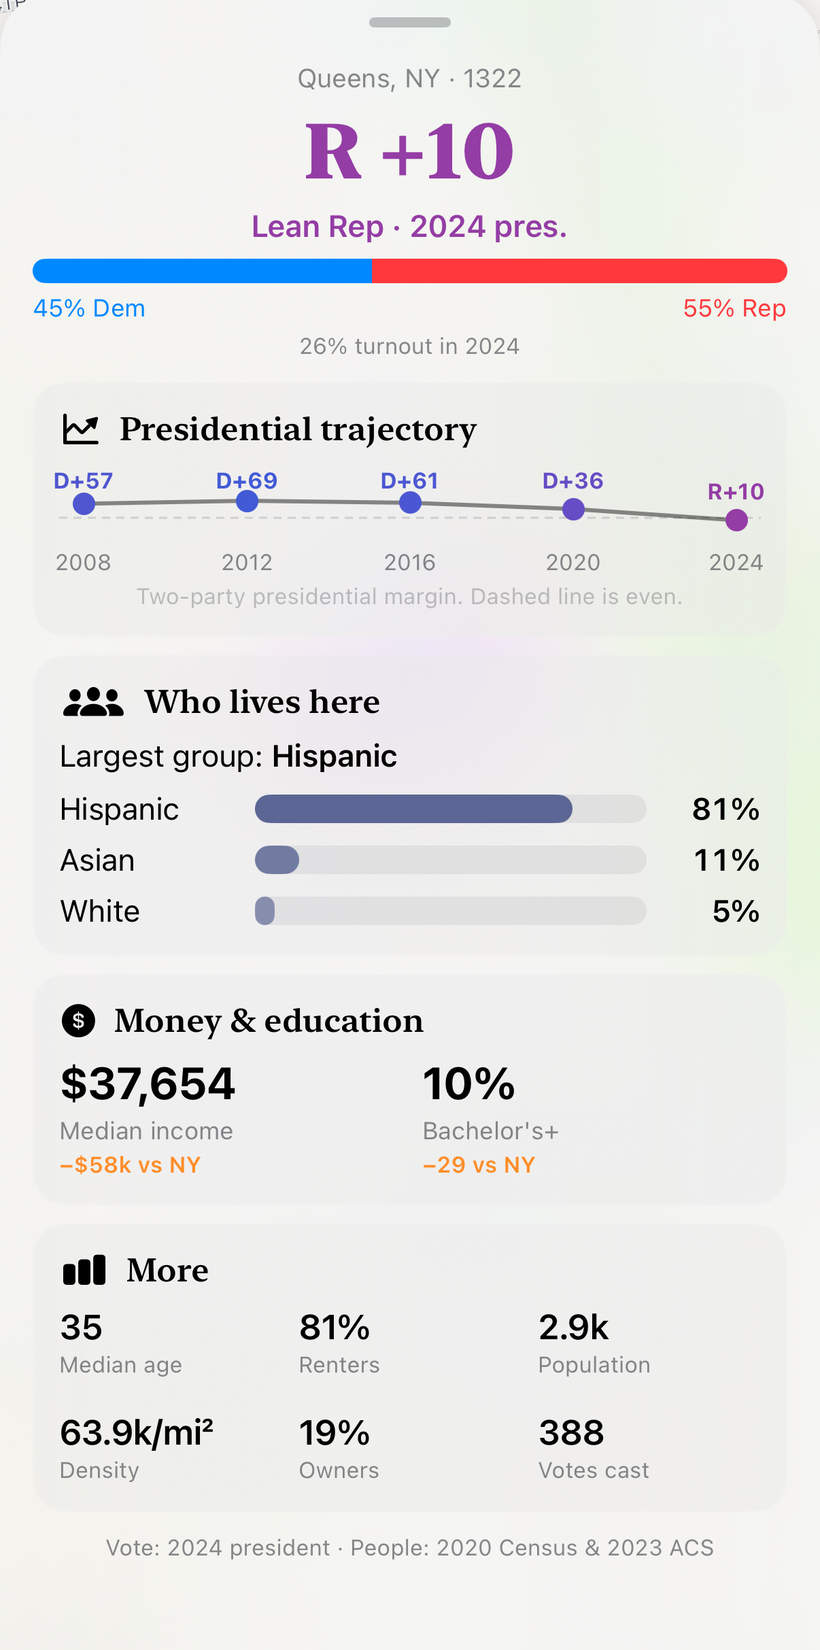
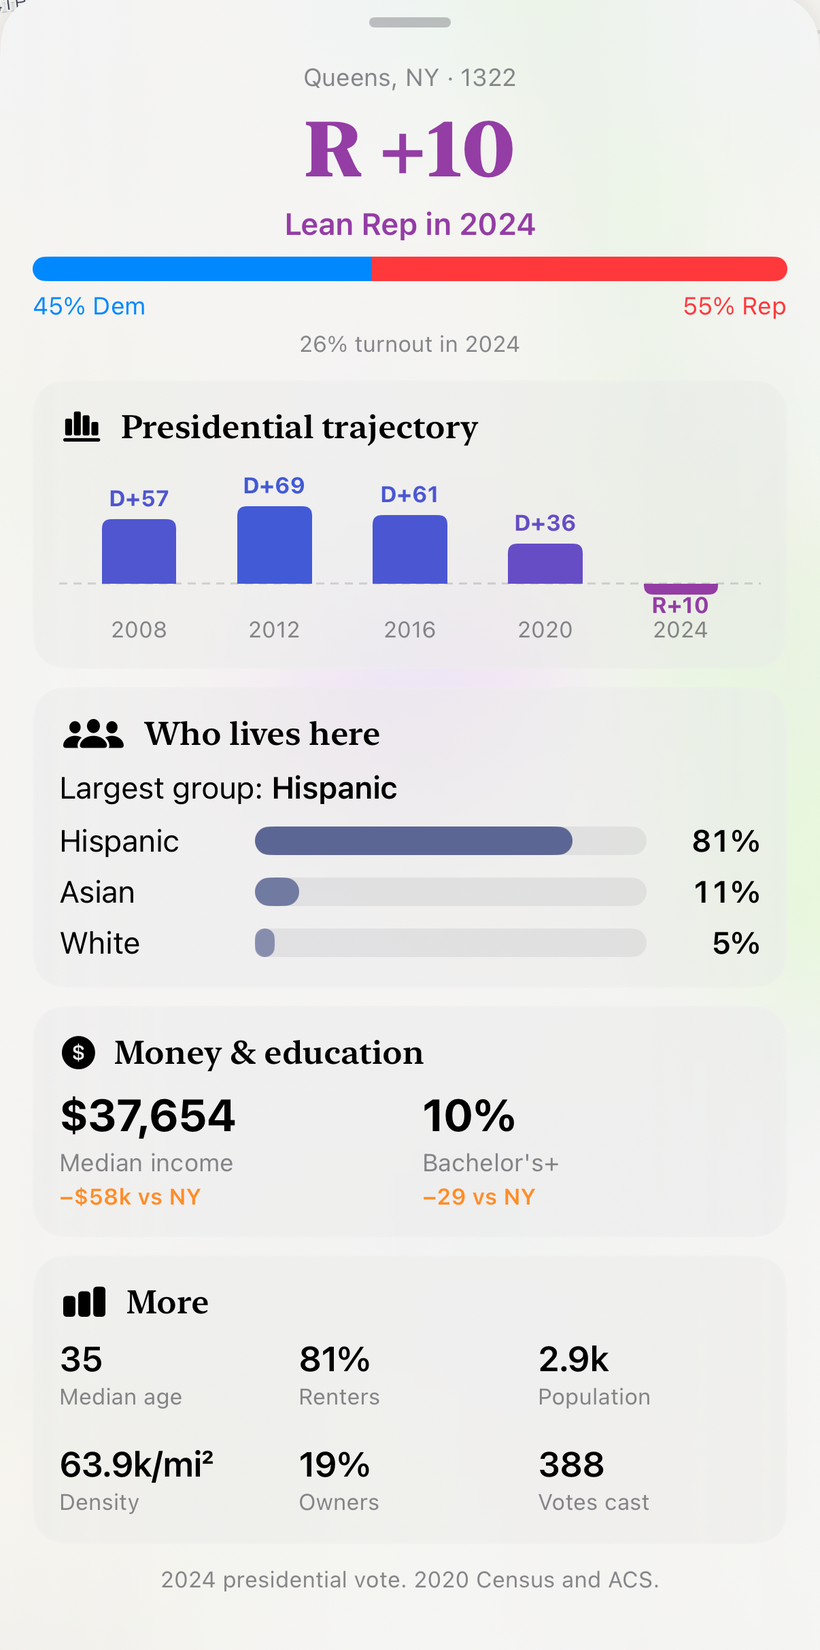
trajectory bars, hero dek reword, demo card reshoot

diff --git a/PrecinctWeather/App/ProfileSheet.swift b/PrecinctWeather/App/ProfileSheet.swift
@@ -176,48 +176,48 @@ private struct TrajectoryBox: View {
     let trend: [ElectionResult]   // president, sorted by year, demShare non-nil
 
     var body: some View {
-        Card(title: "Presidential trajectory", systemImage: "chart.line.uptrend.xyaxis") {
+        Card(title: "Presidential trajectory", systemImage: "chart.bar.xaxis") {
             VStack(spacing: 4) {
                 GeometryReader { geo in
                     let w = geo.size.width, h = geo.size.height
                     let top: CGFloat = 16, bottom = h - 18
                     let n = max(1, trend.count)
-                    let px: (Int) -> CGFloat = { i in n == 1 ? w / 2 : 12 + (w - 24) * CGFloat(i) / CGFloat(n - 1) }
-                    // Zoom the vertical axis to the data (symmetric around even) so real swings read
-                    // clearly instead of nearly flat on a full 0...1 scale. The floor keeps tiny changes
-                    // from looking dramatic; the 1.2x padding keeps points off the top and bottom edges.
-                    let dev = trend.compactMap { $0.demShare }.map { abs($0 - 0.5) }.max() ?? 0.1
-                    let span = max(0.07, dev * 1.2)
-                    let py: (Double) -> CGFloat = { s in (top + bottom) / 2 - CGFloat((s - 0.5) / span) * (bottom - top) / 2 }
+                    // Column layout: even slots, bars centered with side padding so they fill the width.
+                    let inset: CGFloat = 6
+                    let slot = (w - inset * 2) / CGFloat(n)
+                    let px: (Int) -> CGFloat = { i in inset + slot * (CGFloat(i) + 0.5) }
+                    let barW = min(40, slot * 0.55)
+                    // Scale to the actual data range so real swings fill the height, while keeping the
+                    // "even" (50/50) baseline on-screen as a reference — clamped to an edge for precincts
+                    // that never cross it, so the bars grow tall instead of clustering at mid-height.
+                    let shares = trend.compactMap { $0.demShare }
+                    let lo0 = shares.min() ?? 0.4, hi0 = shares.max() ?? 0.6
+                    let pad = max(0.02, (hi0 - lo0) * 0.12)
+                    let lo = min(0.5, lo0 - pad), hi = max(0.5, hi0 + pad)
+                    let py: (Double) -> CGFloat = { s in bottom - CGFloat((s - lo) / (hi - lo)) * (bottom - top) }
                     ZStack {
                         Path { p in
                             p.move(to: CGPoint(x: 0, y: py(0.5)))
                             p.addLine(to: CGPoint(x: w, y: py(0.5)))
                         }
                         .stroke(.secondary.opacity(0.3), style: StrokeStyle(lineWidth: 1, dash: [4, 3]))
-                        Path { p in
-                            for (i, e) in trend.enumerated() {
-                                let pt = CGPoint(x: px(i), y: py(e.demShare ?? 0.5))
-                                if i == 0 { p.move(to: pt) } else { p.addLine(to: pt) }
-                            }
-                        }
-                        .stroke(.primary.opacity(0.45), lineWidth: 2)
                         ForEach(Array(trend.enumerated()), id: \.offset) { i, e in
                             let s = e.demShare ?? 0.5
-                            Circle().fill(Palette.lean(s)).frame(width: 11, height: 11)
-                                .position(x: px(i), y: py(s))
+                            let yEven = py(0.5), yVal = py(s), up = s >= 0.5
+                            UnevenRoundedRectangle(topLeadingRadius: up ? 4 : 0, bottomLeadingRadius: up ? 0 : 4, bottomTrailingRadius: up ? 0 : 4, topTrailingRadius: up ? 4 : 0)
+                                .fill(Palette.lean(s))
+                                .frame(width: barW, height: max(2, abs(yVal - yEven)))
+                                .position(x: px(i), y: (yEven + yVal) / 2)
                             Text(margin(s)).font(.caption2.weight(.bold)).foregroundStyle(Palette.lean(s))
-                                .position(x: px(i), y: max(8, py(s) - 14))
+                                .position(x: px(i), y: s >= 0.5 ? max(8, yVal - 10) : min(yVal + 10, bottom))
                             Text(String(e.year)).font(.caption2).foregroundStyle(.secondary)
                                 .position(x: px(i), y: h - 6)
                         }
                     }
                 }
-                .frame(height: 54)
+                .frame(height: 88)
                 .accessibilityElement()
                 .accessibilityLabel("Presidential margin over time: " + trend.map { "\($0.year) \(margin($0.demShare ?? 0.5))" }.joined(separator: ", "))
-                Text("Two-party presidential margin. Dashed line is even.")
-                    .font(.caption2).foregroundStyle(.tertiary)
             }
         }
     }

diff --git a/site/index.html b/site/index.html
@@ -280,7 +280,7 @@ footer{padding:50px 0 44px;border-top:1px solid var(--hair)}
 <section class="hero"><div class="wrap"><div class="hero-grid">
   <div>
     <h1 class="rv" data-d="1">Precinct is an election map for every&nbsp;neighborhood.</h1>
-    <p class="dek rv" data-d="2">A precinct is the smallest area with its own vote count. Each holds a few thousand people, packed into a city block or spread across miles of countryside. Precinct shows how each one voted and who lives there.</p>
+    <p class="dek rv" data-d="2">A precinct is the smallest unit at which votes are reported. Some hold no one at all, others more than 10,000 people, packed into a single city block or spread across miles of countryside. Precinct shows how each one voted and who lives there.</p>
     <div class="meta rv" data-d="3"><a class="tlink" href="#demo">See a card open below.</a></div>
   </div>
   <div class="stage rv" data-d="2">
